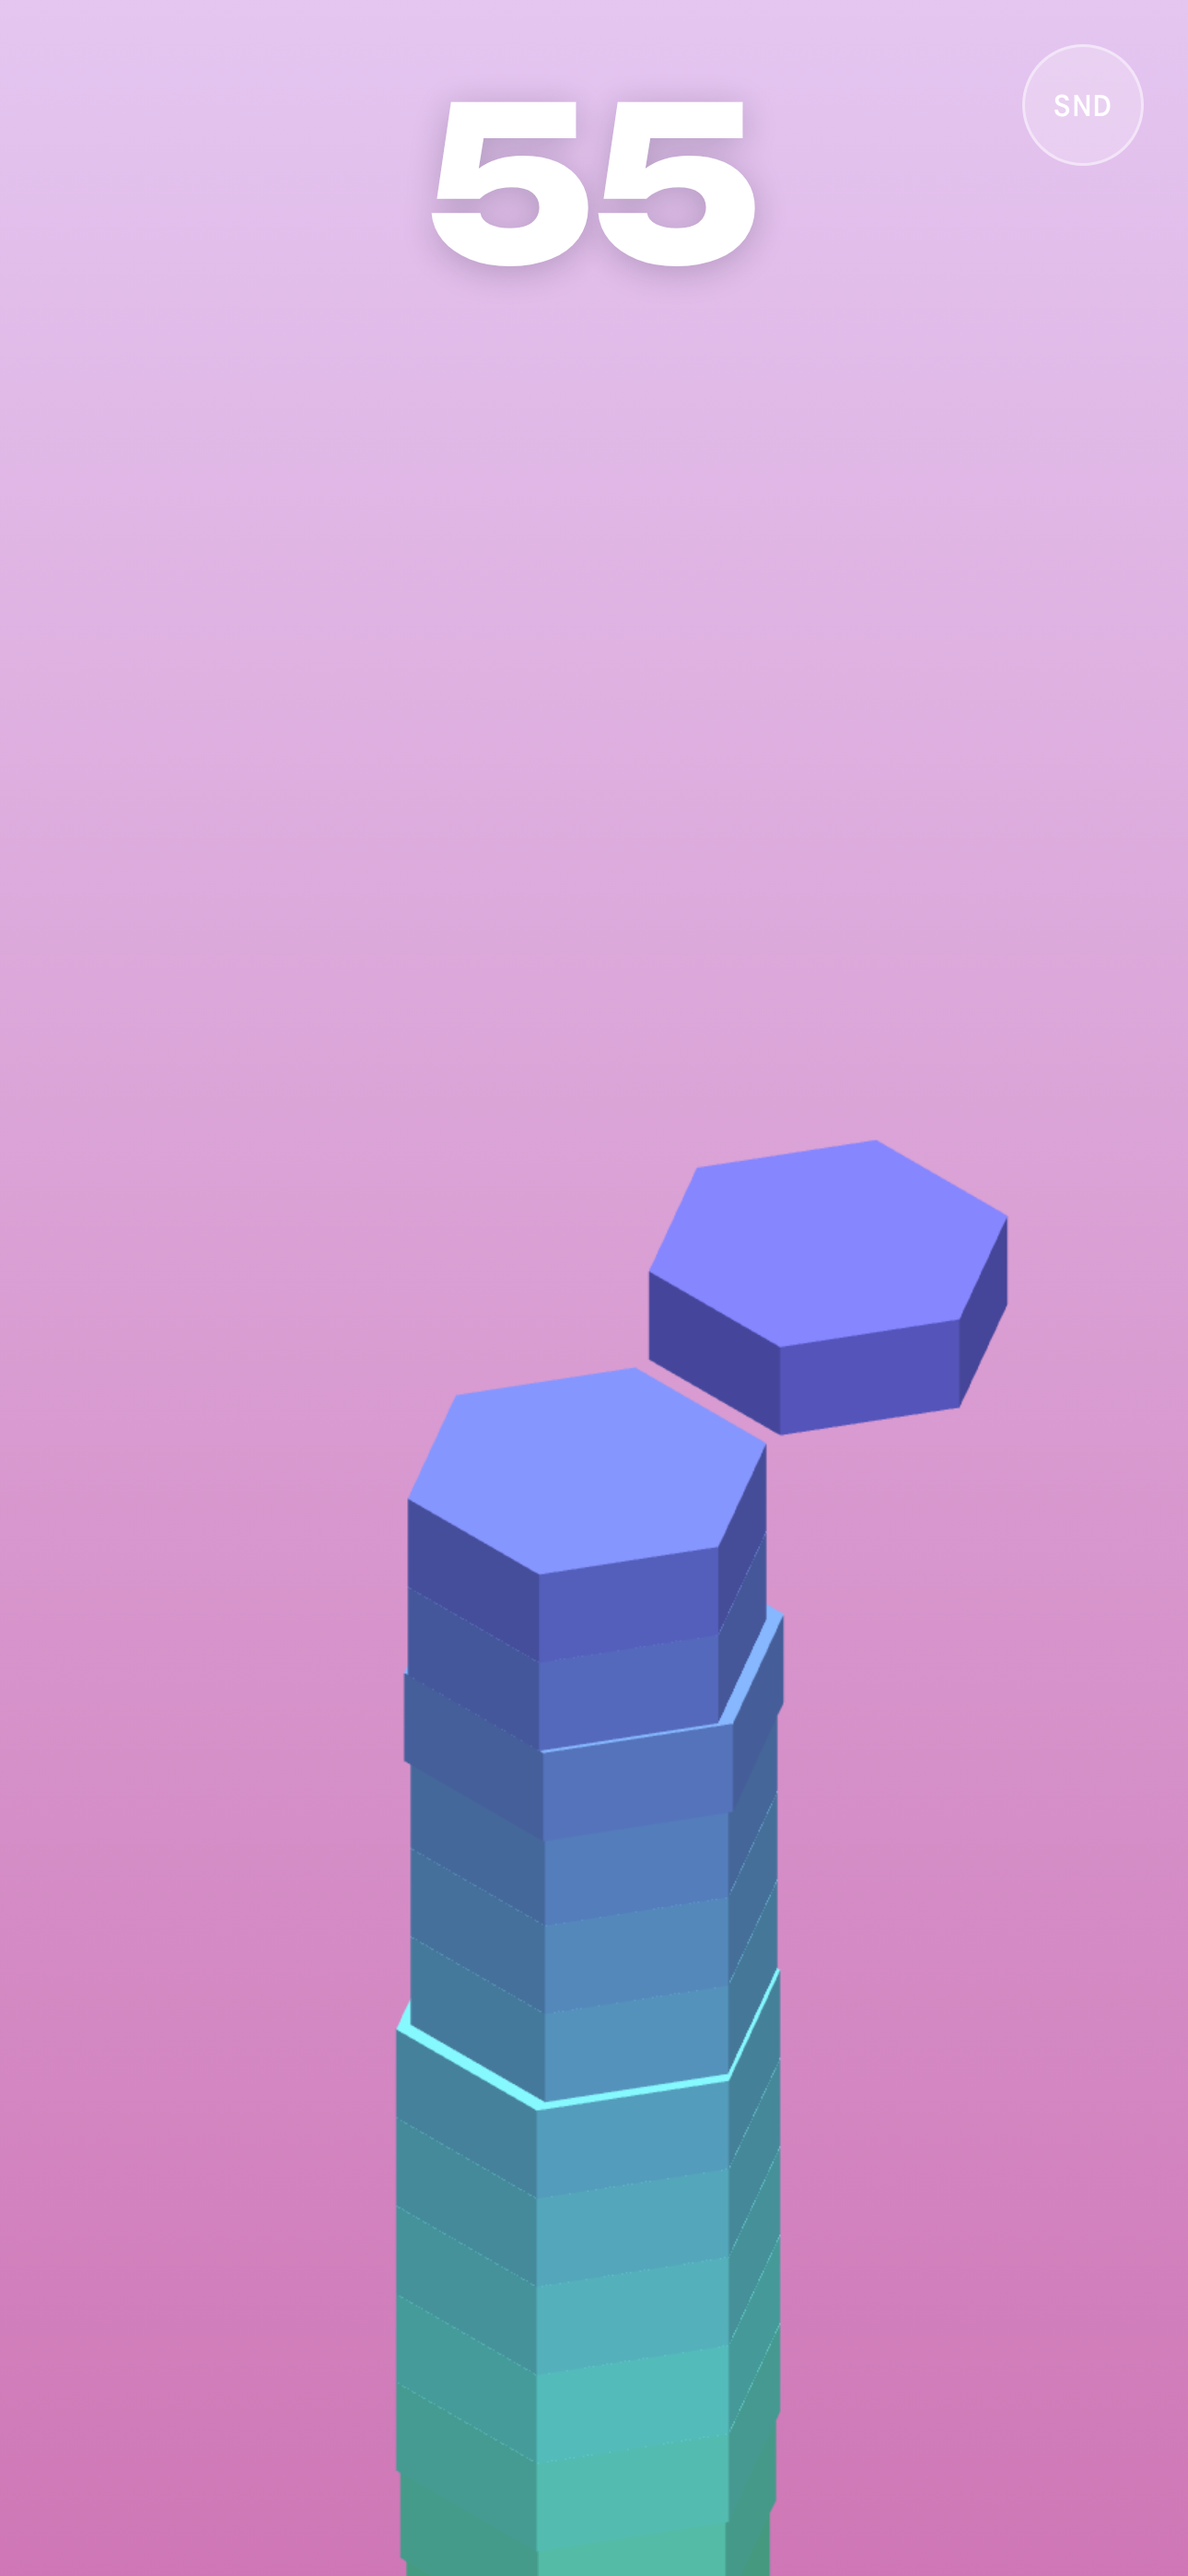
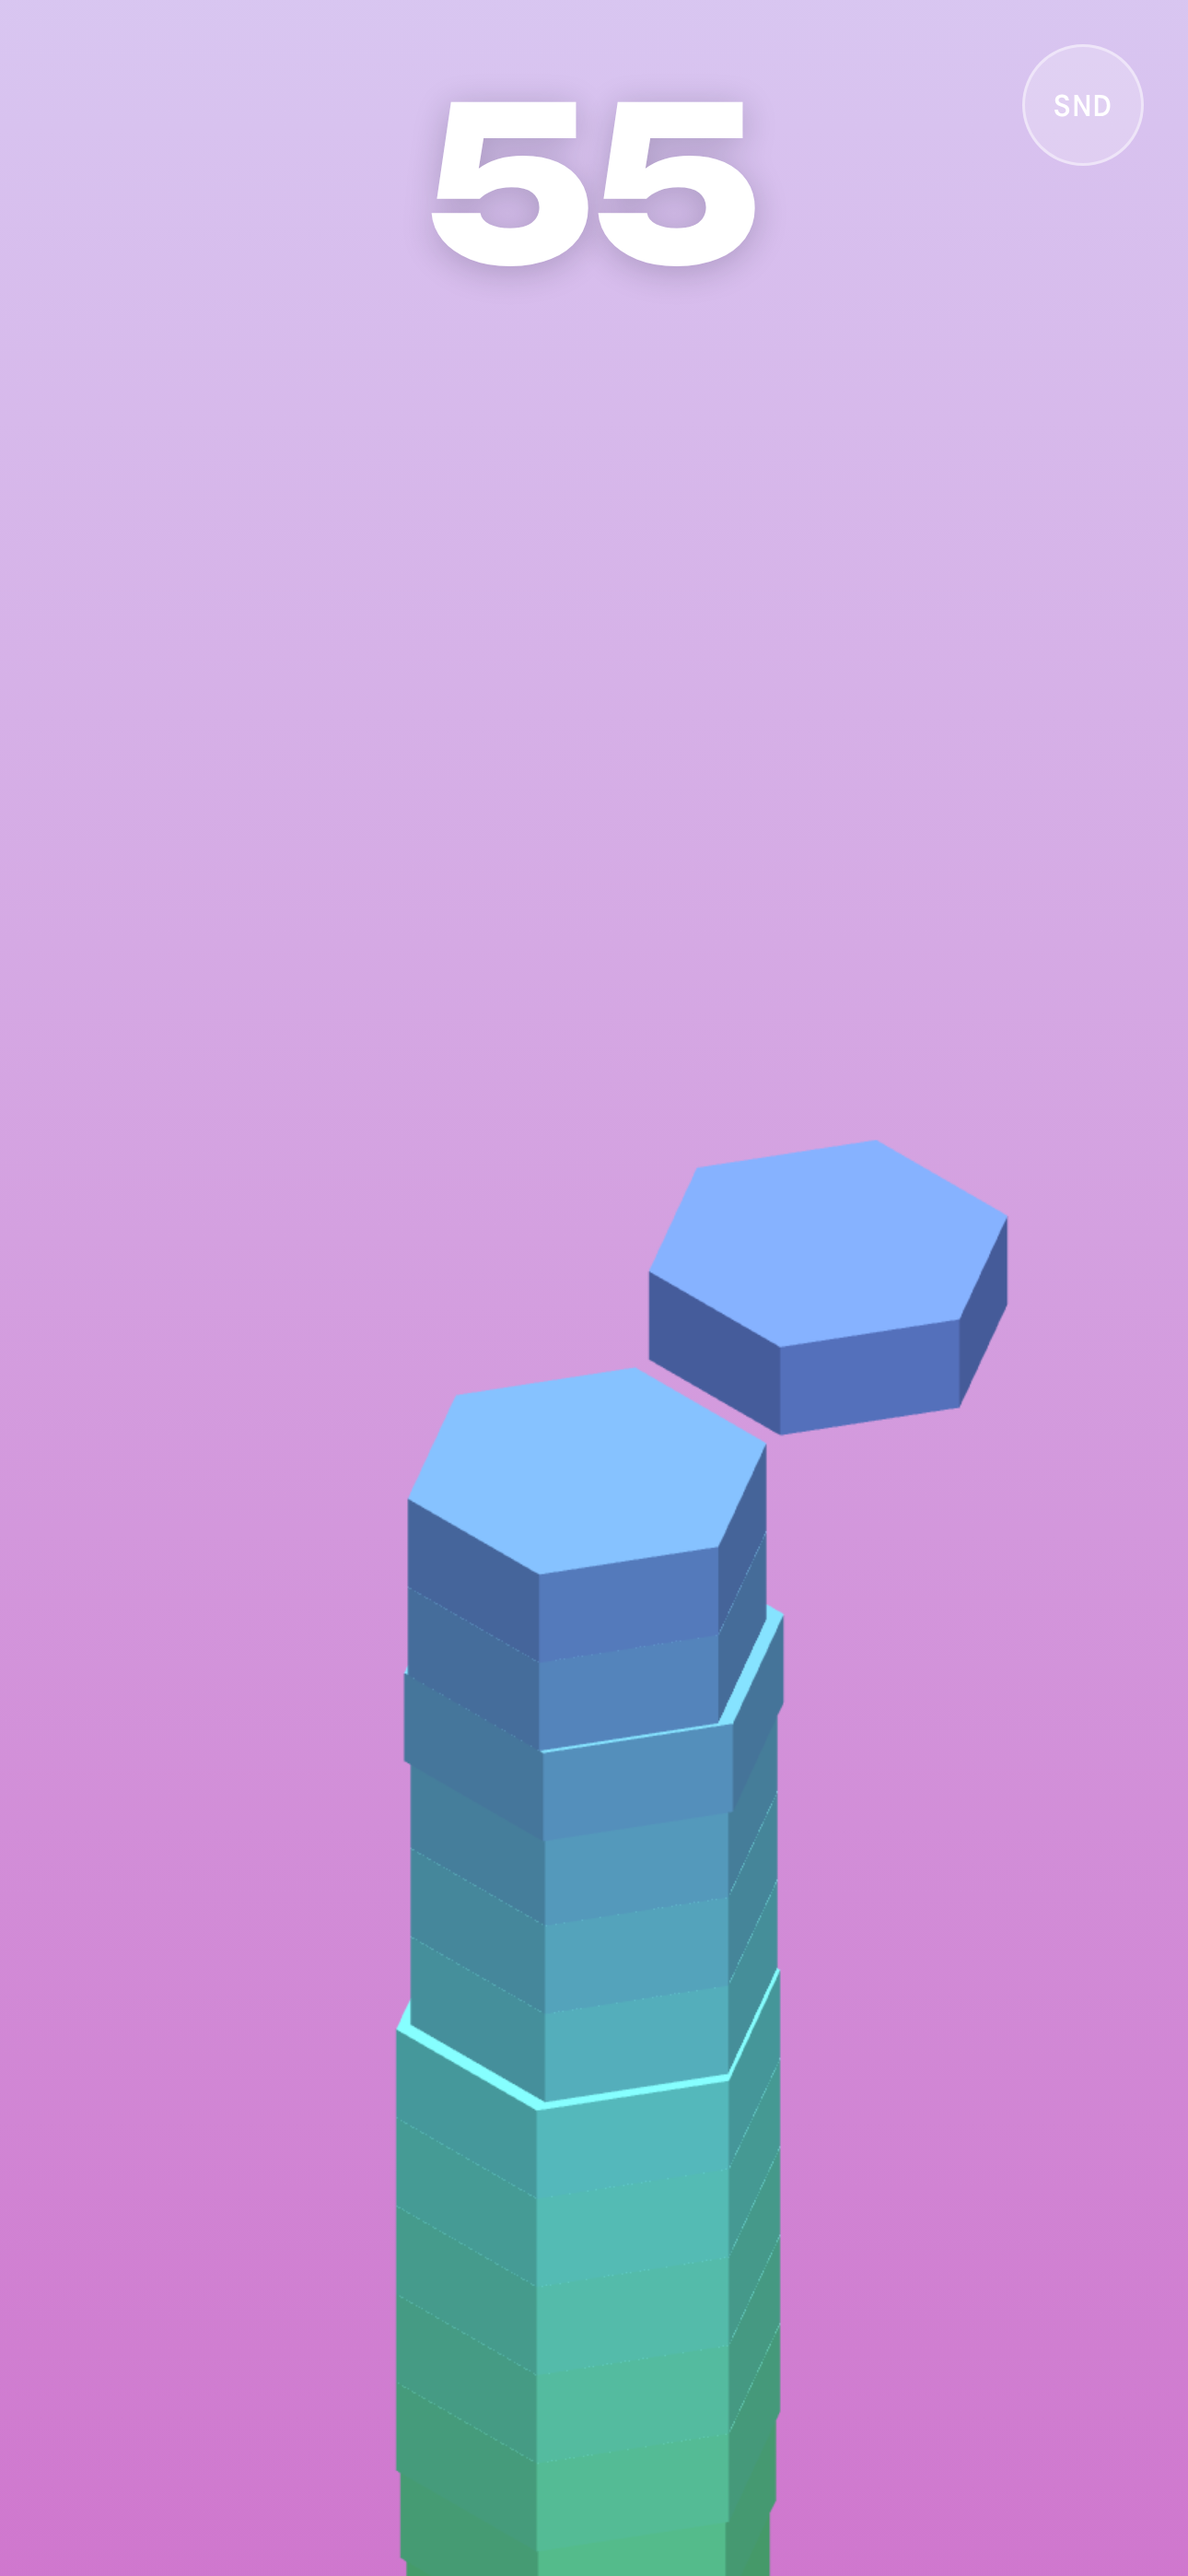
Base column matches each shape
Claude-Session: https://claude.ai/code/session_015yrYcrWQGWp6mEvu2VUsev

Changed region(s): [[0.3411, 0.4356, 0.8372, 0.8712], [0.4341, 0.9024, 0.6202, 1.0]]

diff --git a/src/game.html b/src/game.html
@@ -557,9 +557,10 @@ window.Ads = (function () {
     if (mode === 'daily') { dcfg = dailyConfig(dayKey()); runShape = dcfg.shape; hueBase = dcfg.hue; }
     else { dcfg = null; runShape = shape; hueBase = SHAPE_HUE[shape] + (Math.random() - 0.5) * 50; }
     timeLeft = TIME_START;
-    const ped = new THREE.Mesh(boxGeo, new THREE.MeshLambertMaterial({ color: colorAt(0).offsetHSL(0, -0.1, -0.12) }));
-    ped.scale.set(START, 30, START); ped.position.set(0, -H / 2 - 15, 0); world.add(ped);
     const first = regular(runShape, runShape === 'square' ? START_AREA : START_AREA * 0.86, 0, 0);
+    // The base is a tall column of the same shape, so the tower grows out of it.
+    const ped = meshFor(first, 0, 0, colorAt(0).offsetHSL(0, -0.1, -0.12));
+    ped.scale.y = 30; ped.position.set(0, -H / 2 - 15, 0);
     stack.push(addLayer(first, 0));
     setBg(0);
     scoreEl.textContent = '0';
